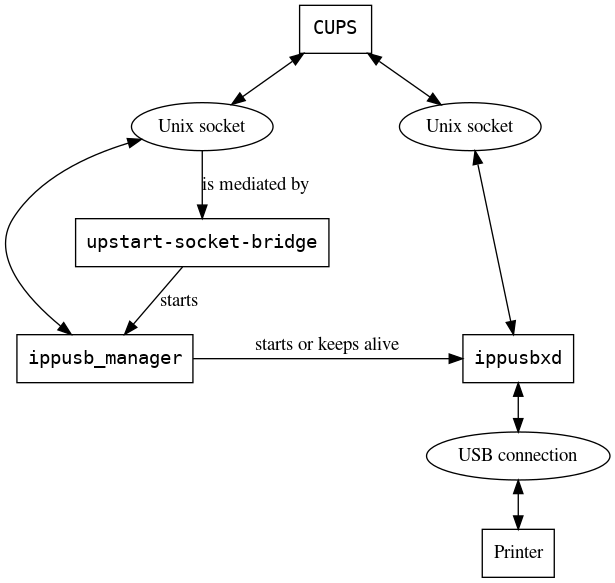
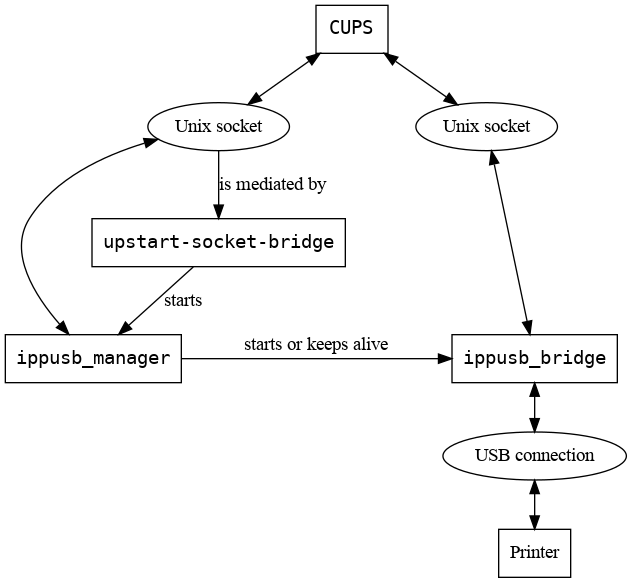
ippusb_manager: remove old references to ippusbxd
Change all references to ippusbxd to reference ippusb_bridge instead.

BUG=b:160720504
TEST=cq

Commit-Queue: Fletcher Woodruff <fletcherw@chromium.org>

diff --git a/ippusb_manager/ippusb_manager.cc b/ippusb_manager/ippusb_manager.cc
@@ -39,10 +39,10 @@ constexpr char kRunDir[] = "/run/ippusb";
 constexpr char kManagerSocketPath[] = "/run/ippusb/ippusb_manager.sock";
 
 // Convenience container that holds
-// *  the main socket on which ippusbxd communicates and
-// *  the ippusbxd keep-alive socket.
-struct IppusbxdSocketPaths {
-  explicit IppusbxdSocketPaths(const UsbPrinterInfo* const printer_info)
+// *  the main socket on which ippusb_bridge communicates and
+// *  the ippusb_bridge keep-alive socket.
+struct IppusbBridgeSocketPaths {
+  explicit IppusbBridgeSocketPaths(const UsbPrinterInfo* const printer_info)
       : main_socket(base::StringPrintf("%s/%04x_%04x.sock",
                                        kRunDir,
                                        printer_info->vid(),
@@ -76,7 +76,8 @@ base::ScopedFD GetFileDescriptor() {
 // Wait up to a maximum of |timeout| seconds for the |socket_paths| to
 // disappear. Will return true if the sockets are closed before the
 // timeout period, false otherwise.
-bool WaitForSocketsClose(const IppusbxdSocketPaths& socket_paths, int timeout) {
+bool WaitForSocketsClose(const IppusbBridgeSocketPaths& socket_paths,
+                         int timeout) {
   base::ElapsedTimer timer;
   while (base::PathExists(socket_paths.main_socket) ||
          base::PathExists(socket_paths.keepalive_socket)) {
@@ -89,7 +90,7 @@ bool WaitForSocketsClose(const IppusbxdSocketPaths& socket_paths, int timeout) {
 }
 
 // Attempts to ping the keep alive socket at the given |keep_alive_path| and
-// receive an acknowledgement from ippusbxd. Returns true if this was
+// receive an acknowledgement from ippusb_bridge. Returns true if this was
 // successful.
 bool CheckKeepAlive(const std::string& keep_alive_path) {
   auto keep_alive_connection =
@@ -110,14 +111,14 @@ bool CheckKeepAlive(const std::string& keep_alive_path) {
 
   // send 'keep-alive' message.
   if (!keep_alive_connection->SendMessage("keep-alive")) {
-    DLOG(ERROR) << "Failed to send keep-alive to ippusbxd";
+    DLOG(ERROR) << "Failed to send keep-alive to ippusb_bridge";
     return false;
   }
 
   // Verify acknowledgement of 'keep-alive' message.
   std::string response;
   if (!keep_alive_connection->GetMessage(&response) || response != "ack") {
-    DLOG(ERROR) << "Expected keep-alive ``ack'' from ippusbxd but got ``"
+    DLOG(ERROR) << "Expected keep-alive ``ack'' from ippusb_bridge but got ``"
                 << response << "''";
     return false;
   }
@@ -125,10 +126,10 @@ bool CheckKeepAlive(const std::string& keep_alive_path) {
   return true;
 }
 
-// Uses minijail to start a new instance of ippusbxd using the
+// Uses minijail to start a new instance of ippusb_bridge using the
 // specified |socket_paths| and the printer described by
 // |printer_info| for printing.
-void SpawnXD(const IppusbxdSocketPaths socket_paths,
+void SpawnXD(const IppusbBridgeSocketPaths socket_paths,
              std::unique_ptr<UsbPrinterInfo> printer_info) {
   std::vector<std::string> string_args = {
       "/usr/bin/ippusb_bridge",
@@ -166,30 +167,30 @@ void SpawnXD(const IppusbxdSocketPaths socket_paths,
   minijail_run(jail.get(), ptr_args[0], ptr_args.data());
 }
 
-// Attempts to ensure that an instance of ippusbxd, appropriately bound
+// Attempts to ensure that an instance of ippusb_bridge, appropriately bound
 // to the specified |socket_paths|, is running. Returns whether or not
 // that is so.
-bool CheckOrSpawnIppusbxd(const IppusbxdSocketPaths& socket_paths,
-                          std::unique_ptr<UsbPrinterInfo> printer_info) {
-  LOG(INFO) << "Checking to see if ippusbxd is already running";
+bool CheckOrSpawnIppusbBridge(const IppusbBridgeSocketPaths& socket_paths,
+                              std::unique_ptr<UsbPrinterInfo> printer_info) {
+  LOG(INFO) << "Checking to see if ippusb_bridge is already running";
 
   // Leap before you look: if we can squeak a keep-alive message to
-  // an already-running ippusbxd instance, we're good.
+  // an already-running ippusb_bridge instance, we're good.
   if (CheckKeepAlive(socket_paths.keepalive_socket.value())) {
     return true;
   }
-  LOG(INFO) << "Couldn't contact ippusbxd. Waiting for sockets to be closed "
-               "before launching a new process";
+  LOG(INFO) << "Couldn't contact ippusb_bridge. Waiting for sockets to be "
+               "closed before launching a new process";
 
-  // Wait a maximum of 3 seconds for the ippusbxd sockets to be closed before
-  // spawning the new process.
+  // Wait a maximum of 3 seconds for the ippusb_bridge sockets to be closed
+  // before spawning the new process.
   if (!WaitForSocketsClose(socket_paths, /*timeout=*/3)) {
     LOG(ERROR) << "The sockets at " << socket_paths.main_socket << " and "
                << socket_paths.keepalive_socket << " still exist";
     return false;
   }
 
-  LOG(INFO) << "Launching a new instance of ippusbxd";
+  LOG(INFO) << "Launching a new instance of ippusb_bridge";
   SpawnXD(socket_paths, std::move(printer_info));
   return true;
 }
@@ -252,13 +253,13 @@ int ippusb_manager_main(int argc, char* argv[]) {
   LOG(INFO) << "Found device on " << static_cast<int>(printer_info->bus())
             << " " << static_cast<int>(printer_info->device());
 
-  const IppusbxdSocketPaths socket_paths =
-      IppusbxdSocketPaths(printer_info.get());
-  if (!CheckOrSpawnIppusbxd(socket_paths, std::move(printer_info))) {
+  const IppusbBridgeSocketPaths socket_paths =
+      IppusbBridgeSocketPaths(printer_info.get());
+  if (!CheckOrSpawnIppusbBridge(socket_paths, std::move(printer_info))) {
     return 1;
   }
 
-  // Sends the basename of the ippusbxd socket to the listener.
+  // Sends the basename of the ippusb_bridge socket to the listener.
   std::string main_socket_basename =
       socket_paths.main_socket.BaseName().value();
   ippusb_socket->SendMessage(main_socket_basename);

diff --git a/ippusb_manager/README.md b/ippusb_manager/README.md
@@ -4,9 +4,9 @@
 OS. This is jointly achieved with
 [CUPS](https://chromium.googlesource.com/chromiumos/third_party/cups/)
 and with
-[ippusbxd][ippusbxd].
+[ippusb_bridge][ippusb_bridge].
 
-In addition, `ippusbxd` is partially documented here.
+In addition, `ippusb_bridge` is partially documented here.
 
 [TOC]
 
@@ -17,11 +17,10 @@ In addition, `ippusbxd` is partially documented here.
 * The entities involved:
   * `CUPS` - the print spooler that wants to print via IPP-over-USB.
   * `ippusb_manager` - service that helps establish communication
-    between the print spooler and `ippusbxd`. Developed specifically
+    between the print spooler and `ippusb_bridge`. Developed specifically
     for IPP-over-USB printing in Chromium OS.
-  * `ippusbxd` - service that facilitates IPP-over-USB communication.
-    Heavily patched for use in Chromium OS. Known to differ
-    substantially from upstream.
+  * `ippusb_bridge` - Chromium OS system service that proxies HTTP traffic
+    over USB to an IPP-over-USB printer.
 
 ## Closer look: CUPS
 
@@ -32,7 +31,7 @@ In addition, `ippusbxd` is partially documented here.
   * These changes apply to `lpadmin` and to the `ipp` backend.
   * If a printer uses the `ippusb://` scheme, then CUPS sends a request
     to `ippusb_manager` to broker a socket for communication with
-    the printer by way of `ippusbxd`.
+    the printer by way of `ippusb_bridge`.
 * The usage of the `ippusb://` scheme is specific to Chromium OS.
   * As this is a non-standard extension, printers don't know how to
     respond to this.
@@ -42,7 +41,7 @@ In addition, `ippusbxd` is partially documented here.
 
 ## Closer look: ippusb\_manager
 
-* Negotiates initial communication between `CUPS` and `ippusbxd`.
+* Negotiates initial communication between `CUPS` and `ippusb_bridge`.
 * Runs on demand.
   * [Started by upstart-socket-bridge][upstart-socket-bridge-conf]
     when data is written to `/run/ippusb/ippusb_manager.sock`.
@@ -51,61 +50,56 @@ In addition, `ippusbxd` is partially documented here.
   * Searches for a printer matching given VID and PID.
   * Search outcome is determined
     * by
-      [the presence of sockets exposed by ippusbxd][ippusbxd-sockets],
+      [the presence of sockets exposed by ippusb_bridge][ippusb-sockets],
       `/run/ippusb/<VID>_<PID>.sock` and
       `/run/ippusb/<VID>_<PID>_keep_alive.sock`, and
-    * by the liveness of `ippusbxd`, checked by
+    * by the liveness of `ippusb_bridge`, checked by
       [sending a keep-alive message on the latter socket][manager-sending-keep-alive].
-* If necessary, [spawns an instance of ippusbxd][manager-spawning-xd].
+* If necessary, [spawns an instance of ippusb_bridge][manager-spawning-bridge].
 * Responds to `CUPS` with the basename of the socket over which
-  it can communicate with `ippusbxd`.
+  it can communicate with `ippusb_bridge`.
 
 ## Closer look: keep-alive messages
 
-* These messages are a feature specific to Chromium OS.
-* Sent from `ippusb_manager` to `ippusbxd` to preempt the latter
+* Sent from `ippusb_manager` to `ippusb_bridge` to preempt the latter
   from its timed idle exit.
 * `ippusb_manager` listens for an explicit acknowledgement before
-  declaring `ippusbxd` alive and reusing the extant sockets.
+  declaring `ippusb_bridge` alive and reusing the extant sockets.
 * If no acknowledgement comes, `ippusb_manager` tries to wait for the
-  sockets to disappear (i.e. that `ippusbxd` has exited) before
-  spawning a new instance of `ippusbxd`.
+  sockets to disappear (i.e. for `ippusb_bridge` to exit) before
+  spawning a new instance.
 
-## Closer look: ippusbxd
+## Closer look: ippusb\_bridge
 
 * Is started by `ippusb_manager`, as mentioned above.
 * Is always waiting to exit when idle.
   * Exits when
-    [10 seconds have elapsed without activity][ippusbxd-timed-exit].
-  * If `ippusbxd` receives a keep-alive from `ippusb_manager`,
+    [10 seconds have elapsed without activity][ippusb_bridge-timed-exit].
+  * If `ippusb_bridge` receives a keep-alive from `ippusb_manager`,
     [it resets the idle timer][ippusb-idle-bump] in anticipation of
     imminent activity.
-* Blindly shuttles IPP messages between `CUPS` and the printer.
-  * Allocates a pair of threads for every available `ippusb` interface
-    on a given printer: one for each direction of communication.
-  * Does not inspect contents of messages passed.
-  * There are no "turns" or state; both threads poll continuously for
-    data and pass it along as quickly as they are able.
+* Proxies HTTP traffic between `CUPS` and the printer via USB.
+  * Allocates a thread for every incoming `ippusb` connection for a
+    given printer. HTTP requests over the connection are handled one at
+    a time.
+  * Inspects the contents of HTTP messages in order to remove HTTP hop-by-hop
+    headers (as per the HTTP spec).
+  * Each client request is read completely, and forwarded to the printer. Then
+    the response is completely read and returned to the client.
 * Holds all available `ippusb` interfaces on the printer until exit.
   * Some printers (e.g. the Canon DX570) are known to behave erratically
-    if we attempt to release interfaces when we were done with them.
-* Patched in Chromium OS to use
-  [UNIX domain sockets][ippusbxd-unix-sockets-patch]
-  rather than network sockets.
+    if we attempt to release interfaces when we are done with them.
+* Supports receiving connections via TCP or Unix domain sockets.
 
 ## Appendix: minijail usage
 
-* Both `ippusb_manager` and `ippusbxd` are run from inside minijail
+* Both `ippusb_manager` and `ippusb_bridge` are run from inside minijail
   instances and retain their own seccomp filters.
 * Forked processes inherit seccomp policies from their parents. Since
-  `ippusb_manager` forks `ippusbxd`, the former seccomp filter must be
-  a superset of the latter.
+  `ippusb_manager` forks `ippusb_bridge`, the manager's seccomp filter must be
+  a superset of ippusb\_bridge's.
 
 ## Appendix: Q&A
-
-*How much of ippusbxd do we use?*
-
-We don't use any of the avahi code.
 
 *(WRT ippusb_manager) why Unix sockets; why not D-Bus?*
 
@@ -118,16 +112,31 @@ Yes, as long as they do not appear to be the same (i.e. present
 identical VIDs and PIDs). We opine that this is an uncommon enough
 use case to be an issue.
 
-*Can ippusb_manager and ippusbxd have multiple clients?*
+*Can ippusb_manager and ippusb_bridge have multiple clients?*
 
 Preliminary testing indicates that this should work. Sockets are
-connection-oriented.
+connection-oriented, and an instance of `ippusb_bridge` is spawned for
+each connected `ippusb` printer.
+
+*Producing overview_diagram.png from overview_diagram.dot*
+
+To generate the overview diagram for the .dot definition, run the following
+commands:
+
+`dot -Tpng overview_diagram.dot -o overview_diagram.png`
+
+`convert overview_diagram.png -colorspace gray -quality 91 overview_diagram.png`
 
 ## Internal Documentation
 
+Note: This documentation is only accessible to Google employees.
+
 See the [design doc](http://go/ipp-over-usb) for information about the overall
-design and how `ippusb_manager` fits into it. This is accessible only within
-google.
+design and how `ippusb_manager` fits into it.
+
+For some discussion of why we migrated to `ippusb_bridge` (from `ippusbxd` as
+discussed in the design doc), see
+[go/ippusb-bridge-design](https://goto.google.com/ippusb-bridge-design).
 
 ## Code Overview
 
@@ -136,13 +145,14 @@ This repository contains the following subdirectories:
 | Subdirectory | Description |
 |--------------|-------------|
 | `etc/init`   | Upstart config files for launching `ippusb_manager` |
+| `fuzzers`    | Source files for `ippusb_manager` fuzzers |
+| `seccomp`    | Seccomp Policy files for restricting syscalls |
 | `udev/`      | udev rules for setting group permissions on ipp-usb printers |
 
-[ippusbxd]: https://chromium.googlesource.com/chromiumos/overlays/chromiumos-overlay/+/refs/heads/master/net-print/ippusbxd/
-[upstart-socket-bridge-conf]: https://source.chromium.org/chromiumos/chromiumos/codesearch/+/master:src/platform2/ippusb_manager/etc/init/ippusb.conf;l=9;drc=6ba85eed862624662a909d840faa1b76bda2f8b5
-[ippusbxd-sockets]: https://source.chromium.org/chromiumos/chromiumos/codesearch/+/master:src/platform2/ippusb_manager/ippusb_manager.cc;l=221;drc=bf4b7828dc29e25bf036924c51ac2072ab13ba7a
-[manager-sending-keep-alive]: https://source.chromium.org/chromiumos/chromiumos/codesearch/+/master:src/platform2/ippusb_manager/ippusb_manager.cc;l=233;drc=bf4b7828dc29e25bf036924c51ac2072ab13ba7a
-[manager-spawning-xd]: https://source.chromium.org/chromiumos/chromiumos/codesearch/+/master:src/platform2/ippusb_manager/ippusb_manager.cc;l=244;drc=bf4b7828dc29e25bf036924c51ac2072ab13ba7a
-[ippusbxd-timed-exit]: https://source.chromium.org/chromiumos/chromiumos/codesearch/+/master:src/third_party/chromiumos-overlay/net-print/ippusbxd/files/keep-alive.patch;l=123;drc=b50344ddb467d9587da16290837c6c80200b1c2f
-[ippusb-idle-bump]: https://source.chromium.org/chromiumos/chromiumos/codesearch/+/master:src/third_party/chromiumos-overlay/net-print/ippusbxd/files/keep-alive.patch;l=324;drc=b50344ddb467d9587da16290837c6c80200b1c2f
-[ippusbxd-unix-sockets-patch]: https://source.chromium.org/chromiumos/chromiumos/codesearch/+/master:src/third_party/chromiumos-overlay/net-print/ippusbxd/files/unix-socket.patch;l=6;drc=085f54c7e3fc3d82db4a3bf250f49c1c3f7c37eb
+[ippusb_bridge]: https://chromium.googlesource.com/chromiumos/platform2/+/HEAD/ippusb_bridge/
+[upstart-socket-bridge-conf]: https://chromium.googlesource.com/chromiumos/platform2/+/HEAD/ippusb_manager/etc/init/ippusb.conf#9
+[ippusb-sockets]: https://chromium.googlesource.com/chromiumos/platform2/+/HEAD/ippusb_manager/ippusb_manager.cc#44
+[manager-sending-keep-alive]: https://chromium.googlesource.com/chromiumos/platform2/+/HEAD/ippusb_manager/ippusb_manager.cc#178
+[manager-spawning-bridge]: https://chromium.googlesource.com/chromiumos/platform2/+/HEAD/ippusb_manager/ippusb_manager.cc#131
+[ippusb_bridge-timed-exit]: https://chromium.googlesource.com/chromiumos/platform2/+/HEAD/ippusb_bridge/src/main.rs#219
+[ippusb-idle-bump]: https://chromium.googlesource.com/chromiumos/platform2/+/HEAD/ippusb_bridge/src/main.rs#252

diff --git a/ippusb_bridge/README.md b/ippusb_bridge/README.md
@@ -15,4 +15,4 @@ Thus, ippusb_bridge is the happy medium: written in a safe language, to avoid
 exposing unsafe code to all USB devices on the system, but still with a
 reasonable binary size.
 
-[ippusbxd]: https://chromium.googlesource.com/chromiumos/overlays/chromiumos-overlay/+/refs/heads/master/net-print/ippusbxd/
+[ippusbxd]: https://www.github.com/OpenPrinting/ippusbxd
